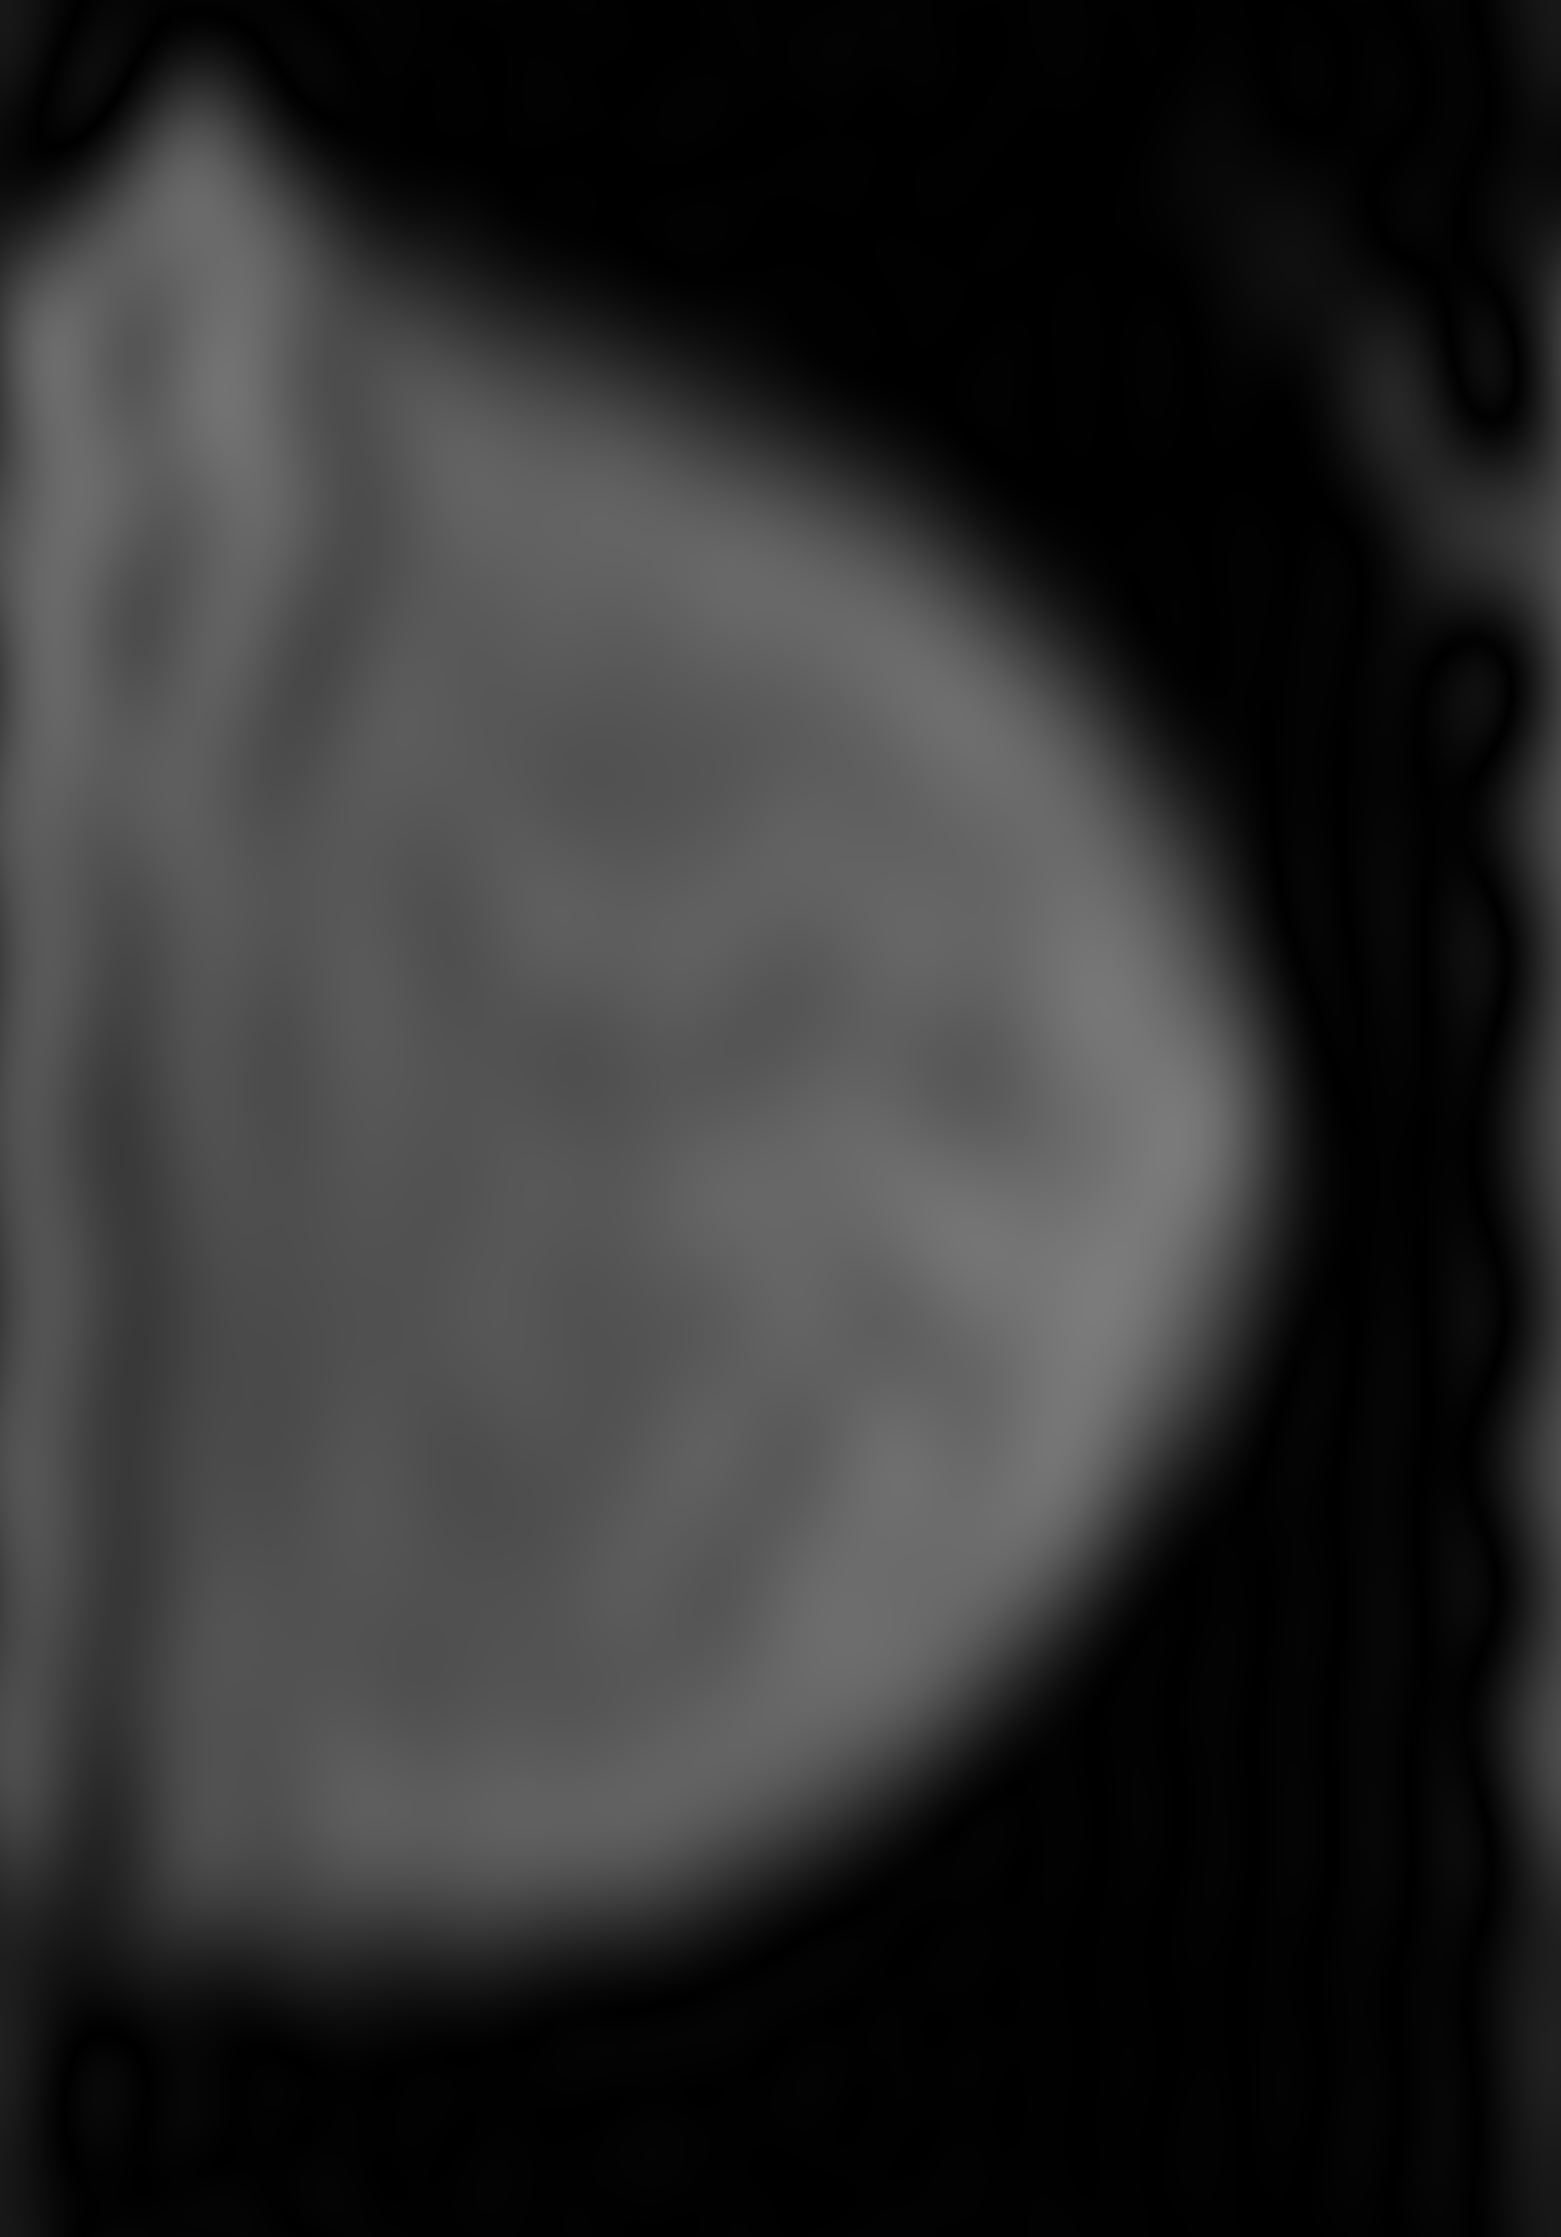
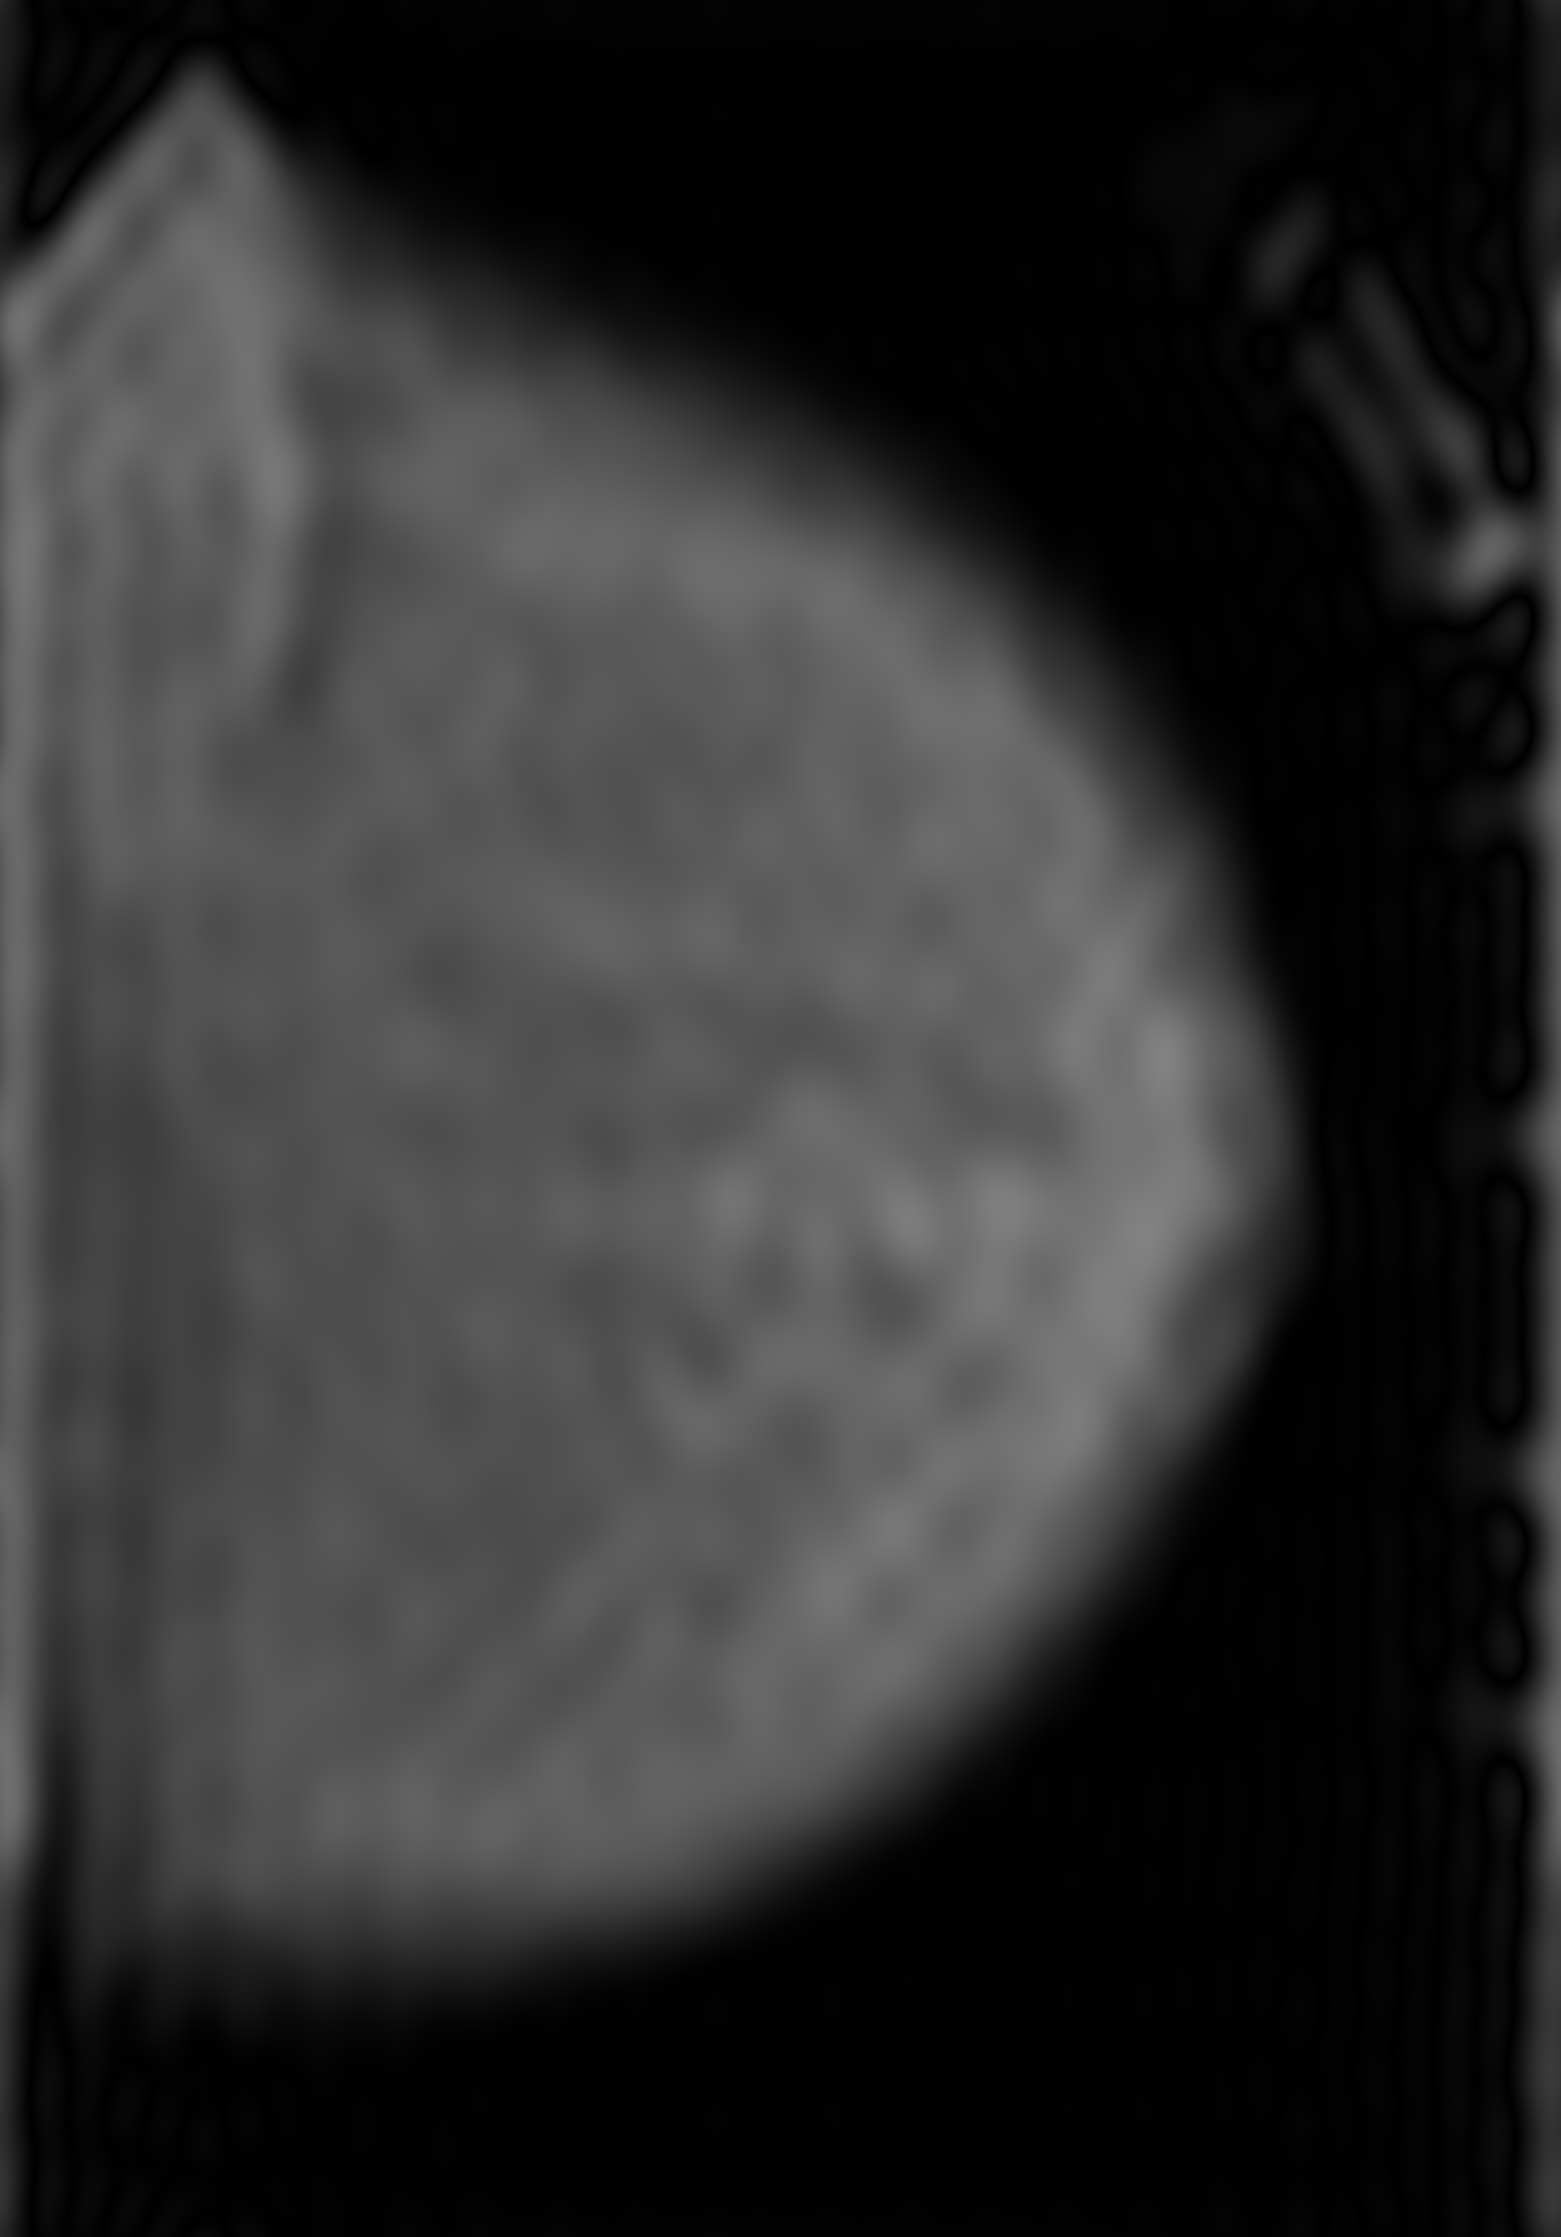
Resultado

diff --git a/PDI/mainwindow.py b/PDI/mainwindow.py
@@ -5,6 +5,10 @@ sys.path.append('App/Imports')
 from Imports import *
 from PIL import Image
 import random
+import os
+from tensorflow.keras.applications.resnet_v2 import preprocess_input
+import tensorflow as tf
+os.environ["TF_CPP_MIN_LOG_LEVEL"] = "2"
 from App.Curso.Logo import Logo
 from App.Colaboradores.JanelaColaboradores import Janela
 from App.JanelaCinza.JanelaSeg import SubWindow
@@ -19,6 +23,7 @@ import cv2
 from App.IA.MostrarTxt import MostrarTxt
 import numpy as np
 import os
+from tensorflow.keras.models import load_model
 import shutil
 
 #variaveis globais que serao utiizadas em todo codigo
@@ -28,7 +33,7 @@ train = []
 l1=None
 l2=None
 test = []
-
+intQualPredicao=0
 #janela Principal do programa onde sera realizado todo o programa em si
 class MainWindow(QMainWindow):
     def __init__(self, parent=None):
@@ -188,7 +193,33 @@ class MainWindow(QMainWindow):
         self.textbox.setPlaceholderText("Digite o valor aqui")
         return
 
-     #funcao para receber o sinal de qual opcao foi escolhida       
+    def fazerSobel(self):
+        global img
+        ob = sobel(img)
+        rr = ob.sobel_edge_detection
+        return
+    
+    def fazerPassaBaixa(self):
+        global img
+        objeto_fourier = passaBaixa(img,20)
+        resultado = objeto_fourier.low_pass_filter
+        return
+
+    def fazerEqualizacao(self, img):
+        img = cv2.imread(img, 0)
+        equalized_img = cv2.equalizeHist(img)
+        cv2.imwrite('App/Raio-X/Equalizada.png', equalized_img)
+        return       
+
+    def fazerEspelho(self, img):
+        img = cv2.imread(img)
+        rotated_img =np.rot90(img, 2)
+        cv2.imwrite('App/Raio-X/Espelho.png', rotated_img)
+        return
+
+    
+
+
     def mostrar_botoes(self, comboBox, label1, label2, button_verificar1, button_hist1, button_verificar2, button_hist2):
         
         global img
@@ -376,19 +407,26 @@ class MainWindow(QMainWindow):
                 child.deleteLater()
 
     def button1_clicked(self):
+        global img
+        global intQualPredicao
+        intQualPredicao =4
         self.clearLayout(self.tab2Layout)
 
-        # Cria um layout horizontal para posicionar a label e as barras de progresso
-        hbox_layout = QHBoxLayout()
+        # Cria um layout horizontal para a estrutura principal
+        hbox_main_layout = QHBoxLayout()
 
         # Adiciona a QLabel com a imagem R.png à esquerda
         label = QLabel(self)
-        pixmap = QPixmap('App/Raio-X/R.png')
-        label.setPixmap(pixmap.scaled(300, 400, Qt.KeepAspectRatio, Qt.SmoothTransformation))
-        hbox_layout.addWidget(label)
+        pixmap = QPixmap(img)
+        # ajuste o tamanho do pixmap para corresponder à altura da janela
+        pixmap = pixmap.scaled(pixmap.width(), self.height(), Qt.KeepAspectRatio, Qt.SmoothTransformation)
+        label.setPixmap(pixmap)
+        label.setScaledContents(True) # Esta linha garante que a imagem se ajuste ao tamanho do QLabel
+        # Adiciona a QLabel ao layout principal
+        hbox_main_layout.addWidget(label, 1)
 
-        # Cria um layout vertical para posicionar as opções de marcar
-        vbox1_layout = QVBoxLayout()
+        # Cria um layout vertical para os botões de filtro e outras opções
+        vbox_layout = QVBoxLayout()
 
         # Adiciona as opções de filtro
         self.filters = []
@@ -396,112 +434,168 @@ class MainWindow(QMainWindow):
         filter_checkbox1 = QCheckBox("Passa Baixa")
         filter_checkbox2 = QCheckBox("Equalizacao")
         filter_checkbox3 = QCheckBox("Espelho")
-        vbox1_layout.addWidget(filter_checkbox)
-        vbox1_layout.addWidget(filter_checkbox1)
-        vbox1_layout.addWidget(filter_checkbox2)
-        vbox1_layout.addWidget(filter_checkbox3)
+        vbox_layout.addWidget(filter_checkbox)
+        vbox_layout.addWidget(filter_checkbox1)
+        vbox_layout.addWidget(filter_checkbox2)
+        vbox_layout.addWidget(filter_checkbox3)
         self.filters.append(filter_checkbox)
         self.filters.append(filter_checkbox1)
         self.filters.append(filter_checkbox2)
         self.filters.append(filter_checkbox3)
 
-        # Adiciona o layout vertical de opções de marcar ao layout horizontal
-        hbox_layout.addLayout(vbox1_layout)
-
-        # Cria um layout vertical para posicionar as outras duas opções
-        vbox2_layout = QVBoxLayout()
-
         # Adiciona a seleção de opções
         self.option1 = QRadioButton("Sem Texto")
         self.option2 = QRadioButton("Com Texto")
-        vbox2_layout.addWidget(self.option1)
-        vbox2_layout.addWidget(self.option2)
-
-        # Adiciona o layout vertical de outras duas opções ao layout horizontal
-        hbox_layout.addLayout(vbox2_layout)
-
-        # Adiciona o layout horizontal ao layout principal da terceira aba
-        self.tab2Layout.addLayout(hbox_layout)
+        vbox_layout.addWidget(self.option1)
+        vbox_layout.addWidget(self.option2)
 
         # Adiciona o botão para enviar as seleções
         send_button = QPushButton("Predicao")
+        send_button.setFixedSize(100, 30)
         send_button.clicked.connect(self.send_selections)
-        self.tab2Layout.addWidget(send_button)
+        vbox_layout.addWidget(send_button, alignment=Qt.AlignBottom)
 
-        # Adiciona as barras de progresso à direita
+        # Adiciona as barras de progresso
         self.progress_bars = []
+        roman_numerals = ["I", "II", "III", "IV"] # Números romanos
         for i in range(4):
+            roman_label = QLabel(roman_numerals[i]) # QLabel para o número romano
+            vbox_layout.addWidget(roman_label, alignment=Qt.AlignLeft) # Adiciona o QLabel ao layout vertical
             progress_bar = QProgressBar(self)
-            self.tab2Layout.addWidget(progress_bar)
-        self.progress_bars.append(progress_bar)
+            progress_bar.setFixedSize(500, 40)
+            vbox_layout.addWidget(progress_bar) # Adiciona a barra de progresso ao layout vertical
+            self.progress_bars.append(progress_bar)
+
+        # Adiciona o layout vertical ao layout horizontal principal
+        hbox_main_layout.addLayout(vbox_layout, 1)
+
+        # Adiciona o layout horizontal ao layout principal da terceira aba
+        self.tab2Layout.addLayout(hbox_main_layout)
+
+
+
+
+
+
+
+        
 
     def button2_clicked(self):
+        global img
         self.clearLayout(self.tab2Layout)
 
-        # Cria um layout horizontal para posicionar a label e as barras de progresso
-        hbox_layout = QHBoxLayout()
+        # Cria um layout horizontal para a estrutura principal
+        hbox_main_layout = QHBoxLayout()
 
         # Adiciona a QLabel com a imagem R.png à esquerda
         label = QLabel(self)
-        pixmap = QPixmap('App/Raio-X/R.png')
-        label.setPixmap(pixmap.scaled(300, 400, Qt.KeepAspectRatio, Qt.SmoothTransformation))
-        hbox_layout.addWidget(label)
+        pixmap = QPixmap(img)
+        # ajuste o tamanho do pixmap para corresponder à altura da janela
+        pixmap = pixmap.scaled(pixmap.width(), self.height(), Qt.KeepAspectRatio, Qt.SmoothTransformation)
+        label.setPixmap(pixmap)
+        label.setScaledContents(True) # Esta linha garante que a imagem se ajuste ao tamanho do QLabel
+        # Adiciona a QLabel ao layout principal
+        hbox_main_layout.addWidget(label, 1) # O '1' aqui adiciona um stretch para ocupar todo o espaço vertical à esquerda
 
-        # Cria um layout vertical para posicionar as opções de marcar
-        vbox1_layout = QVBoxLayout()
+        # Cria um layout vertical para os botões de filtro e outras opções
+        vbox_layout = QVBoxLayout()
 
         # Adiciona as opções de filtro
         self.filters = []
         filter_checkbox = QCheckBox("Sobel")
         filter_checkbox1 = QCheckBox("Passa Baixa")
-        filter_checkbox2 = QCheckBox("Binarizacao")
-        filter_checkbox3 = QCheckBox("Cannny")
-        vbox1_layout.addWidget(filter_checkbox)
-        vbox1_layout.addWidget(filter_checkbox1)
-        vbox1_layout.addWidget(filter_checkbox2)
-        vbox1_layout.addWidget(filter_checkbox3)
+        filter_checkbox2 = QCheckBox("Equalizacao")
+        filter_checkbox3 = QCheckBox("Espelho")
+        vbox_layout.addWidget(filter_checkbox)
+        vbox_layout.addWidget(filter_checkbox1)
+        vbox_layout.addWidget(filter_checkbox2)
+        vbox_layout.addWidget(filter_checkbox3)
         self.filters.append(filter_checkbox)
         self.filters.append(filter_checkbox1)
         self.filters.append(filter_checkbox2)
         self.filters.append(filter_checkbox3)
 
-        # Adiciona o layout vertical de opções de marcar ao layout horizontal
-        hbox_layout.addLayout(vbox1_layout)
-
-        # Cria um layout vertical para posicionar as outras duas opções
-        vbox2_layout = QVBoxLayout()
-
         # Adiciona a seleção de opções
         self.option1 = QRadioButton("Sem Texto")
         self.option2 = QRadioButton("Com Texto")
-        vbox2_layout.addWidget(self.option1)
-        vbox2_layout.addWidget(self.option2)
-
-        # Adiciona o layout vertical de outras duas opções ao layout horizontal
-        hbox_layout.addLayout(vbox2_layout)
-
-        # Adiciona o layout horizontal ao layout principal da terceira aba
-        self.tab2Layout.addLayout(hbox_layout)
+        vbox_layout.addWidget(self.option1)
+        vbox_layout.addWidget(self.option2)
 
         # Adiciona o botão para enviar as seleções
         send_button = QPushButton("Predicao")
+        send_button.setFixedSize(100, 30)
         send_button.clicked.connect(self.send_selections)
-        self.tab2Layout.addWidget(send_button)
+        vbox_layout.addWidget(send_button, alignment=Qt.AlignBottom)
 
-        # Adiciona as barras de progresso à direita
+        # Adiciona as barras de progresso
         self.progress_bars = []
         for i in range(2):
             progress_bar = QProgressBar(self)
-            self.tab2Layout.addWidget(progress_bar)
+            progress_bar.setFixedSize(500, 40)
+            vbox_layout.addWidget(progress_bar)
             self.progress_bars.append(progress_bar)
+
+        # Adiciona o layout vertical ao layout horizontal principal
+        hbox_main_layout.addLayout(vbox_layout, 1) # O '1' aqui adiciona um stretch para ocupar o espaço restante à direita
+
+        # Adiciona o layout horizontal ao layout principal da terceira aba
+        self.tab2Layout.addLayout(hbox_main_layout)
+    
+
+
+    def fazer4classes(self, filtros, texto):
+        # Cria o dicionário de operações
+        global img
+        operations = {
+            "Sobel": [self.fazerSobel(), "App/Raio-X/Sobel.png"],
+            "Passa Baixa": [self.fazerPassaBaixa(), "App/Raio-X/PassaBaixa.png"],
+            "Equalizacao": [self.fazerEqualizacao(img), "App/Raio-X/Equalizada.png"],
+            "Espelho": [self.fazerEspelho(img), "App/Raio-X/Espelho.png"],
+        }
+
+        
+
+        if texto == "Sem Texto":
+            # Carrega o modelo
+            print("aki inico")
+            model = load_model('App/IA/my_model_4.h5')
+
+            # Lista para armazenar as predições
+            predictions = []
+
+            #for filter_checkbox in filtros:
+                #if filter_checkbox.isChecked():
+                    # Chama a função de filtro correspondente
+                    #operations[filter_checkbox.text()][0]()
+
             
+            image = cv2.imread("App/Raio-X/PassaBaixa.png",0)
+            image = self.prepare_image_for_model(image)
+            prediction = model.predict(image)
+            predictions.append(prediction)     
+
+            print(predictions)
+            print("aki")
+
+
+    def prepare_image_for_model(self,image, target_size=(224, 224)):
+        # Redimensiona a imagem para o tamanho-alvo
+        image = cv2.resize(image, target_size)
+        
+        # Normaliza os pixels para o intervalo [0, 1]
+        image = image.astype('float32') / 255.0
+        
+        # Adiciona uma dimensão de lote
+        image = np.expand_dims(image, axis=0)
+        
+        return image
 
     def send_selections(self):
+        global intQualPredicao
         selected_filters = [filter.text() for filter in self.filters if filter.isChecked()]
         selected_option = self.option1.text() if self.option1.isChecked() else self.option2.text() if self.option2.isChecked() else None
-        if selected_option=="Sem Texto":
-            predicao=self.fazerPredicaoBinariaSemTexto(selected_filters)
-        # Gerar porcentagens aleatórias para as barras de progresso
+        if intQualPredicao ==4:
+            self.fazer4classes(selected_filters,selected_option)
         percentages = [random.randint(0, 100) for _ in self.progress_bars]
         
         self.update_progress_bars(percentages)

diff --git a/PDI/inicio.py b/PDI/inicio.py
@@ -1,6 +1,17 @@
 import sys
 sys.path.append('App/Imports')
 
+import os
+
+# Redireciona a saída de erro para /dev/null no Linux/macOS ou para nul no Windows
+if os.name == 'posix':  # Linux ou macOS
+    devnull = open('/dev/null', 'w')
+
+os.dup2(devnull.fileno(), 2)
+
+os.environ["CUDA_VISIBLE_DEVICES"] = "-1"
+os.environ["TF_CPP_MIN_LOG_LEVEL"] = "2"
+
 from Imports import *
 from mainwindow import MainWindow
 from Imports import *
